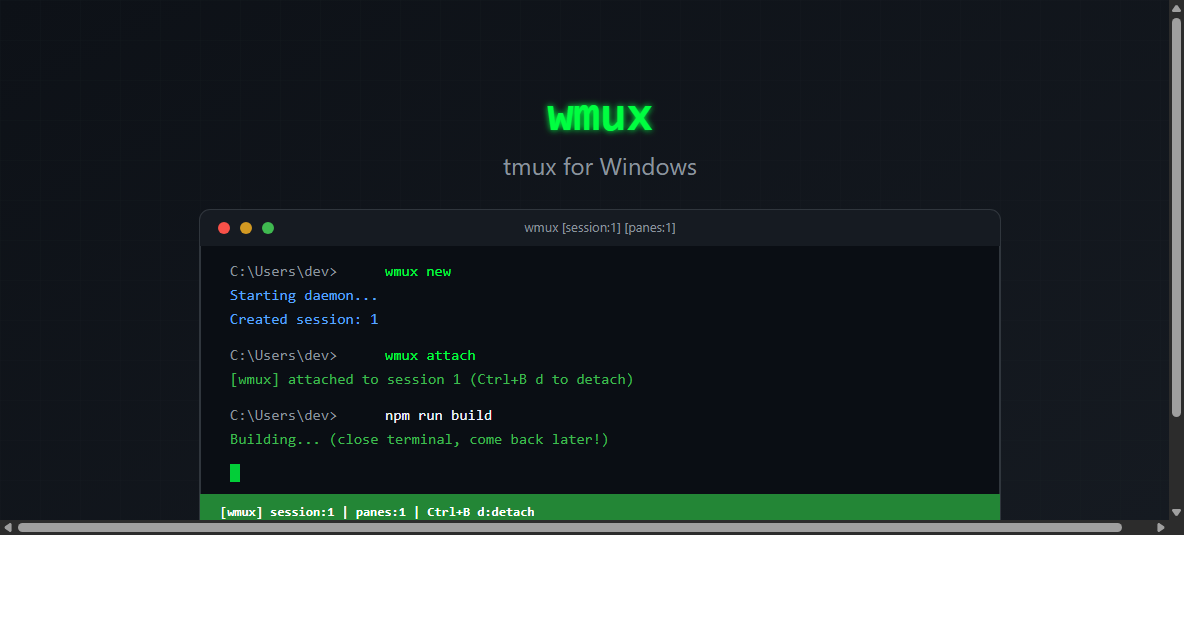
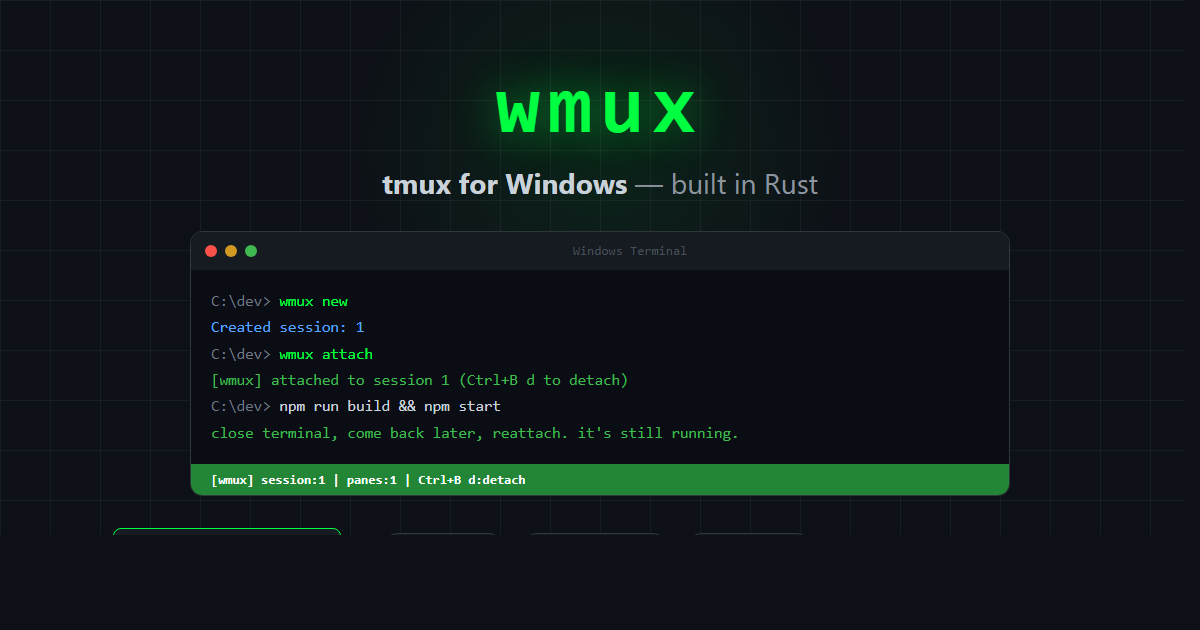
docs: redesign promo image

diff --git a/docs/promo.html b/docs/promo.html
@@ -1,0 +1,210 @@
+<!DOCTYPE html>
+<html>
+<head>
+<meta charset="utf-8">
+<style>
+* { margin: 0; padding: 0; box-sizing: border-box; }
+body {
+  width: 1200px;
+  height: 630px;
+  background: #0d1117;
+  font-family: 'Segoe UI', system-ui, sans-serif;
+  overflow: hidden;
+  display: flex;
+  flex-direction: column;
+  align-items: center;
+  justify-content: center;
+  position: relative;
+}
+
+/* Grid bg */
+body::before {
+  content: '';
+  position: absolute;
+  inset: 0;
+  background-image:
+    linear-gradient(rgba(48,54,61,0.3) 1px, transparent 1px),
+    linear-gradient(90deg, rgba(48,54,61,0.3) 1px, transparent 1px);
+  background-size: 50px 50px;
+}
+
+/* Green glow orb */
+.glow-orb {
+  position: absolute;
+  width: 500px;
+  height: 500px;
+  background: radial-gradient(circle, rgba(0,255,65,0.08) 0%, transparent 70%);
+  top: -100px;
+  left: 50%;
+  transform: translateX(-50%);
+}
+
+.content {
+  position: relative;
+  z-index: 1;
+  display: flex;
+  flex-direction: column;
+  align-items: center;
+  gap: 20px;
+}
+
+/* Logo */
+.logo {
+  font-family: Consolas, 'Courier New', monospace;
+  font-size: 80px;
+  font-weight: 900;
+  color: #00ff41;
+  letter-spacing: 8px;
+  text-shadow: 0 0 40px rgba(0,255,65,0.4), 0 0 80px rgba(0,255,65,0.2);
+}
+
+.tagline {
+  font-size: 28px;
+  color: #8b949e;
+  font-weight: 400;
+  margin-top: -8px;
+}
+
+.tagline strong {
+  color: #c9d1d9;
+}
+
+/* Terminal mockup */
+.terminal {
+  width: 820px;
+  background: #0a0e14;
+  border: 1.5px solid #30363d;
+  border-radius: 12px;
+  overflow: hidden;
+  margin-top: 10px;
+}
+
+.terminal-bar {
+  background: #161b22;
+  height: 38px;
+  display: flex;
+  align-items: center;
+  padding: 0 14px;
+  gap: 8px;
+}
+
+.dot { width: 12px; height: 12px; border-radius: 50%; }
+.dot-r { background: #f85149; }
+.dot-y { background: #d29922; }
+.dot-g { background: #3fb950; }
+
+.terminal-bar span {
+  flex: 1;
+  text-align: center;
+  font-size: 13px;
+  color: #484f58;
+  font-family: Consolas, monospace;
+}
+
+.terminal-body {
+  padding: 18px 20px;
+  font-family: Consolas, 'Courier New', monospace;
+  font-size: 15.5px;
+  line-height: 1.7;
+}
+
+.prompt { color: #6e7681; }
+.cmd { color: #00ff41; }
+.output { color: #58a6ff; }
+.success { color: #3fb950; }
+.text { color: #c9d1d9; }
+
+.status-bar {
+  background: #238636;
+  padding: 8px 20px;
+  font-family: Consolas, monospace;
+  font-size: 13px;
+  color: #fff;
+  font-weight: 600;
+}
+
+/* Bottom */
+.bottom {
+  display: flex;
+  align-items: center;
+  gap: 40px;
+  margin-top: 12px;
+}
+
+.install-badge {
+  background: #161b22;
+  border: 1.5px solid #00ff41;
+  border-radius: 8px;
+  padding: 10px 24px;
+  font-family: Consolas, monospace;
+  font-size: 18px;
+  color: #00ff41;
+}
+
+.links {
+  font-size: 15px;
+  color: #484f58;
+}
+
+.links a {
+  color: #58a6ff;
+  text-decoration: none;
+}
+
+.badges {
+  display: flex;
+  gap: 16px;
+  align-items: center;
+}
+
+.badge {
+  background: #161b22;
+  border: 1px solid #30363d;
+  border-radius: 20px;
+  padding: 6px 16px;
+  font-size: 13px;
+  color: #8b949e;
+  display: flex;
+  align-items: center;
+  gap: 6px;
+}
+
+.badge .icon { color: #00ff41; font-size: 15px; }
+</style>
+</head>
+<body>
+  <div class="glow-orb"></div>
+  <div class="content">
+    <div class="logo">wmux</div>
+    <div class="tagline"><strong>tmux for Windows</strong> &mdash; built in Rust</div>
+
+    <div class="terminal">
+      <div class="terminal-bar">
+        <div class="dot dot-r"></div>
+        <div class="dot dot-y"></div>
+        <div class="dot dot-g"></div>
+        <span>Windows Terminal</span>
+      </div>
+      <div class="terminal-body">
+        <div><span class="prompt">C:\dev&gt; </span><span class="cmd">wmux new</span></div>
+        <div><span class="output">Created session: 1</span></div>
+        <div><span class="prompt">C:\dev&gt; </span><span class="cmd">wmux attach</span></div>
+        <div><span class="success">[wmux] attached to session 1 (Ctrl+B d to detach)</span></div>
+        <div><span class="prompt">C:\dev&gt; </span><span class="text">npm run build &amp;&amp; npm start</span></div>
+        <div><span class="success">close terminal, come back later, reattach. it's still running.</span></div>
+      </div>
+      <div class="status-bar">[wmux] session:1 | panes:1 | Ctrl+B d:detach</div>
+    </div>
+
+    <div class="bottom">
+      <div class="install-badge">cargo install wmux</div>
+      <div class="badges">
+        <div class="badge"><span class="icon">&#9679;</span> Open Source</div>
+        <div class="badge"><span class="icon">&#9679;</span> MIT / Apache-2.0</div>
+        <div class="badge"><span class="icon">&#9679;</span> Windows 10+</div>
+      </div>
+      <div class="links">github.com/bahri-hirfanoglu/wmux</div>
+    </div>
+  </div>
+</body>
+</html>
